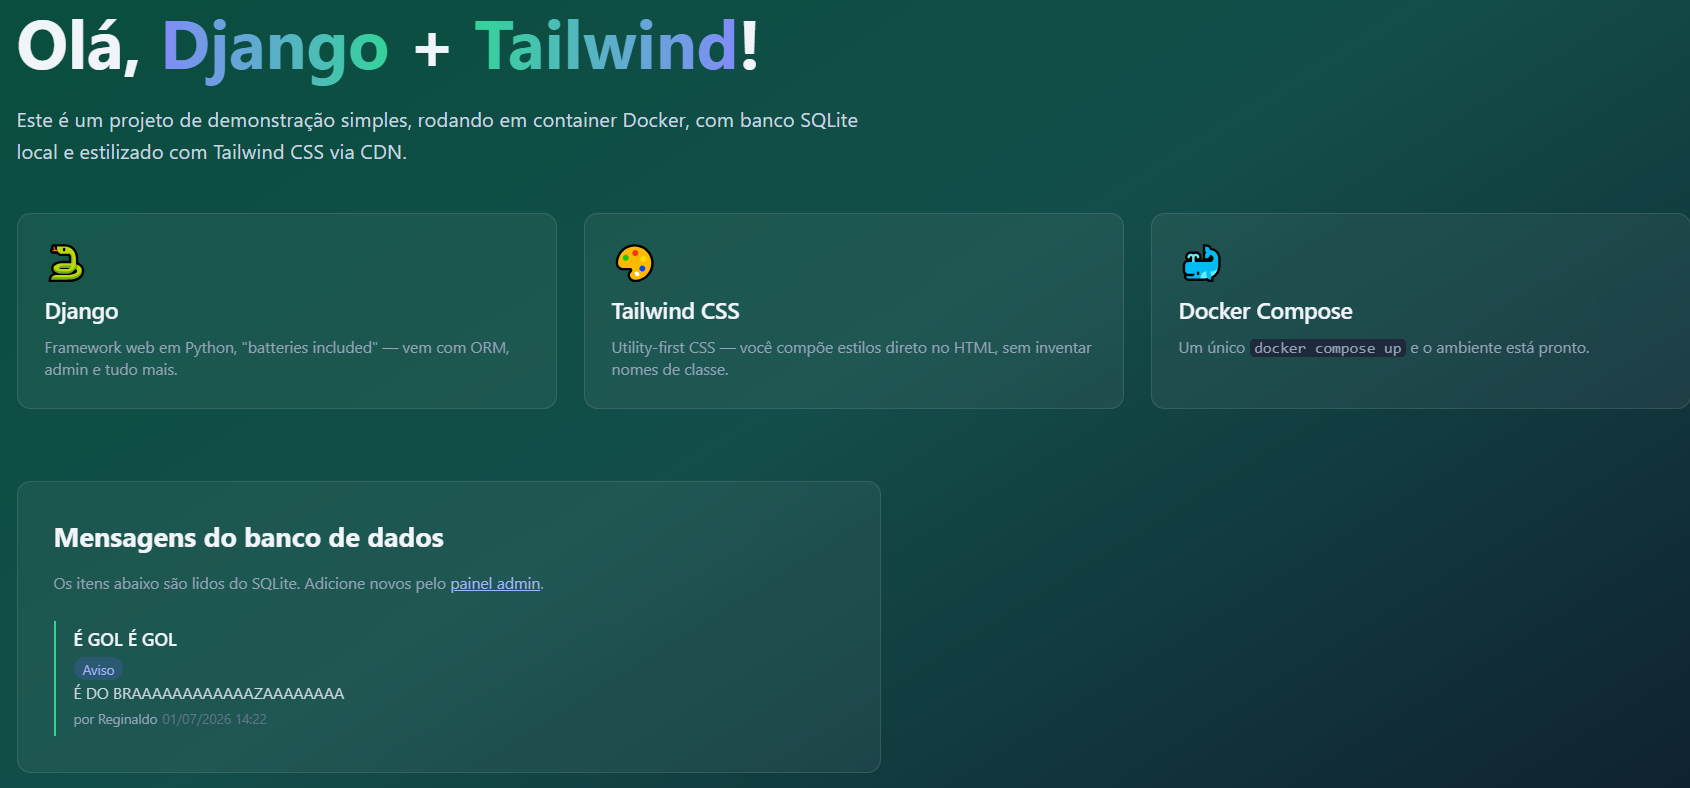
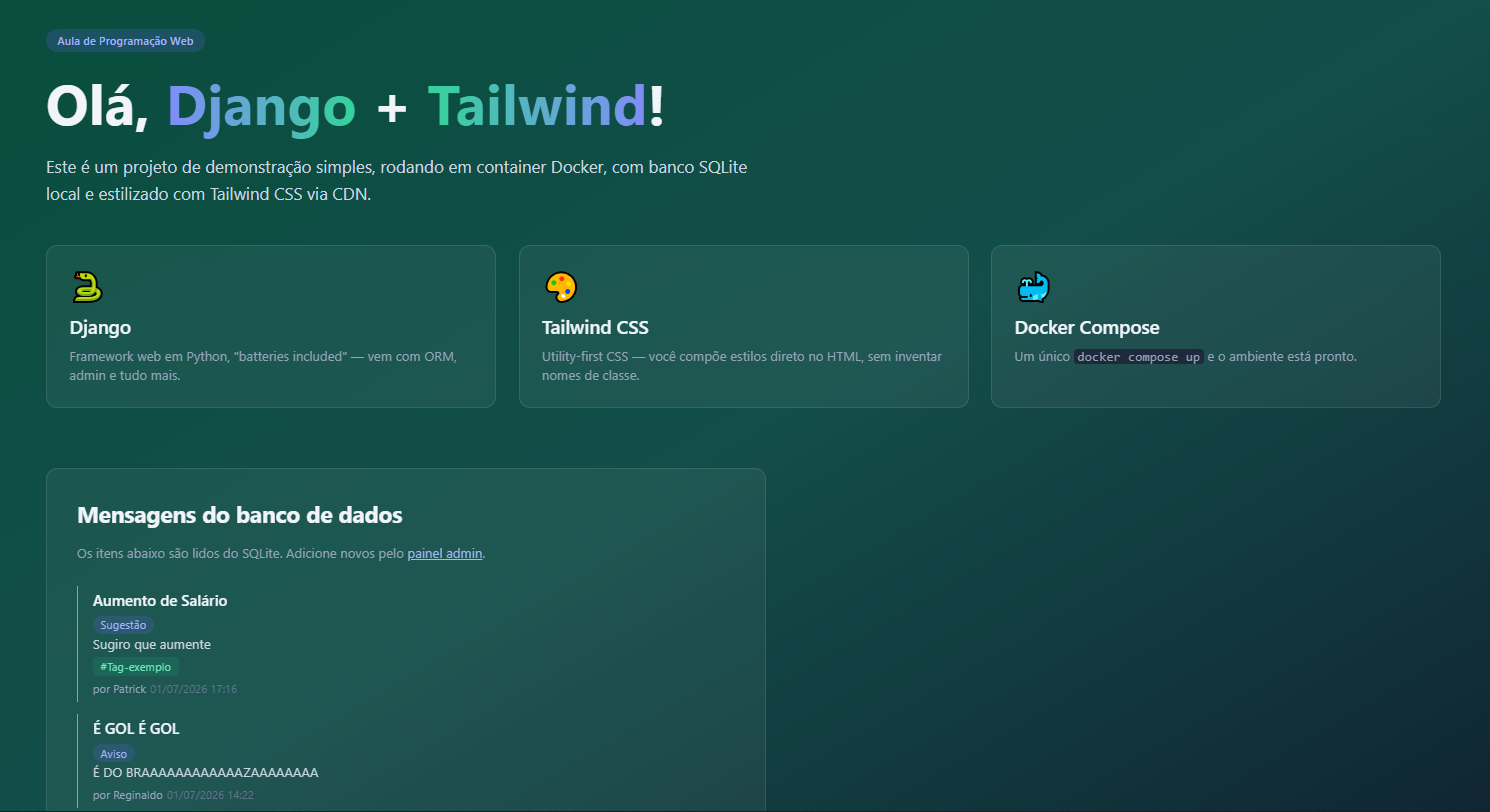
parte 4 completa

diff --git a/django/templates/home/index.html b/django/templates/home/index.html
@@ -70,6 +70,15 @@
                                 </span>
                             {% endif %}
                             <p class="text-sm text-slate-300">{{ m.conteudo }}</p>
+                            {% if m.tags.all %}                                          {# ← novo #}
+                                <div class="flex flex-wrap gap-1 mt-1">
+                                    {% for tag in m.tags.all %}
+                                        <span class="inline-block px-2 py-0.5 bg-emerald-500/15 text-emerald-300 text-xs rounded">
+                                            #{{ tag.nome }}
+                                        </span>
+                                    {% endfor %}
+                                </div>
+                            {% endif %}
                             <span class="text-xs text-slate-400">por {{ m.autor }}</span>
                             <span class="text-xs text-slate-500">{{ m.criada_em|date:"d/m/Y H:i" }}</span>
                         </li>

diff --git a/django/home/models.py b/django/home/models.py
@@ -1,8 +1,18 @@
 from django.db import models
 
 
-class Categoria(models.Model):                                  
+class Categoria(models.Model):
     nome = models.CharField(max_length=50, unique=True)
+
+    class Meta:
+        ordering = ["nome"]
+
+    def __str__(self):
+        return self.nome
+
+
+class Tag(models.Model):                                        
+    nome = models.SlugField(max_length=30, unique=True)
 
     class Meta:
         ordering = ["nome"]
@@ -15,10 +25,15 @@ class Mensagem(models.Model):
     titulo = models.CharField(max_length=120)
     conteudo = models.TextField()
     autor = models.CharField(max_length=80, default="Anônimo")
-    categoria = models.ForeignKey(                              
+    categoria = models.ForeignKey(
         Categoria,
         on_delete=models.SET_NULL,
         null=True,
+        blank=True,
+        related_name="mensagens",
+    )
+    tags = models.ManyToManyField(                              
+        Tag,
         blank=True,
         related_name="mensagens",
     )

diff --git a/django/home/admin.py b/django/home/admin.py
@@ -1,16 +1,23 @@
 from django.contrib import admin
 
-from .models import Categoria, Mensagem
+from .models import Categoria, Mensagem, Tag
 
 
-@admin.register(Categoria)                                      
+@admin.register(Categoria)
 class CategoriaAdmin(admin.ModelAdmin):
+    list_display = ("nome",)
+    search_fields = ("nome",)
+
+
+@admin.register(Tag)                                           
+class TagAdmin(admin.ModelAdmin):
     list_display = ("nome",)
     search_fields = ("nome",)
 
 
 @admin.register(Mensagem)
 class MensagemAdmin(admin.ModelAdmin):
-    list_display = ("titulo", "categoria", "criada_em")         
-    list_filter = ("categoria",)                                
+    list_display = ("titulo", "categoria", "criada_em")
+    list_filter = ("categoria", "tags")                        
     search_fields = ("titulo", "conteudo")
+    filter_horizontal = ("tags",)                              

diff --git a/django/home/migrations/0004_tag_mensagem_tags.py b/django/home/migrations/0004_tag_mensagem_tags.py
@@ -1,0 +1,28 @@
+# Generated by Django 5.1.3 on 2026-07-01 20:08
+
+from django.db import migrations, models
+
+
+class Migration(migrations.Migration):
+
+    dependencies = [
+        ('home', '0003_categoria_mensagem_categoria'),
+    ]
+
+    operations = [
+        migrations.CreateModel(
+            name='Tag',
+            fields=[
+                ('id', models.BigAutoField(auto_created=True, primary_key=True, serialize=False, verbose_name='ID')),
+                ('nome', models.SlugField(max_length=30, unique=True)),
+            ],
+            options={
+                'ordering': ['nome'],
+            },
+        ),
+        migrations.AddField(
+            model_name='mensagem',
+            name='tags',
+            field=models.ManyToManyField(blank=True, related_name='mensagens', to='home.tag'),
+        ),
+    ]

diff --git a/README.md b/README.md
@@ -1,15 +1,9 @@
-# Roteiro 3 Django
-README referente à parte 3 dos roteiros do projeto django da disciplina de Programação Web
+# Roteiro 4 Django
+README referente à parte 4 dos roteiros do projeto django da disciplina de Programação Web
 
 ## Imagens
+### Tag:
+![alt text](img/tag.png)
+
 ### Home:
 ![alt text](img/home.png)
-
-### Mensageria:
-![alt text](img/mensagem.png)
-
-### Terminal:
-![alt text](img/terminal.png)
-
-### Categoria:
-![alt text](img/categoria.png)
